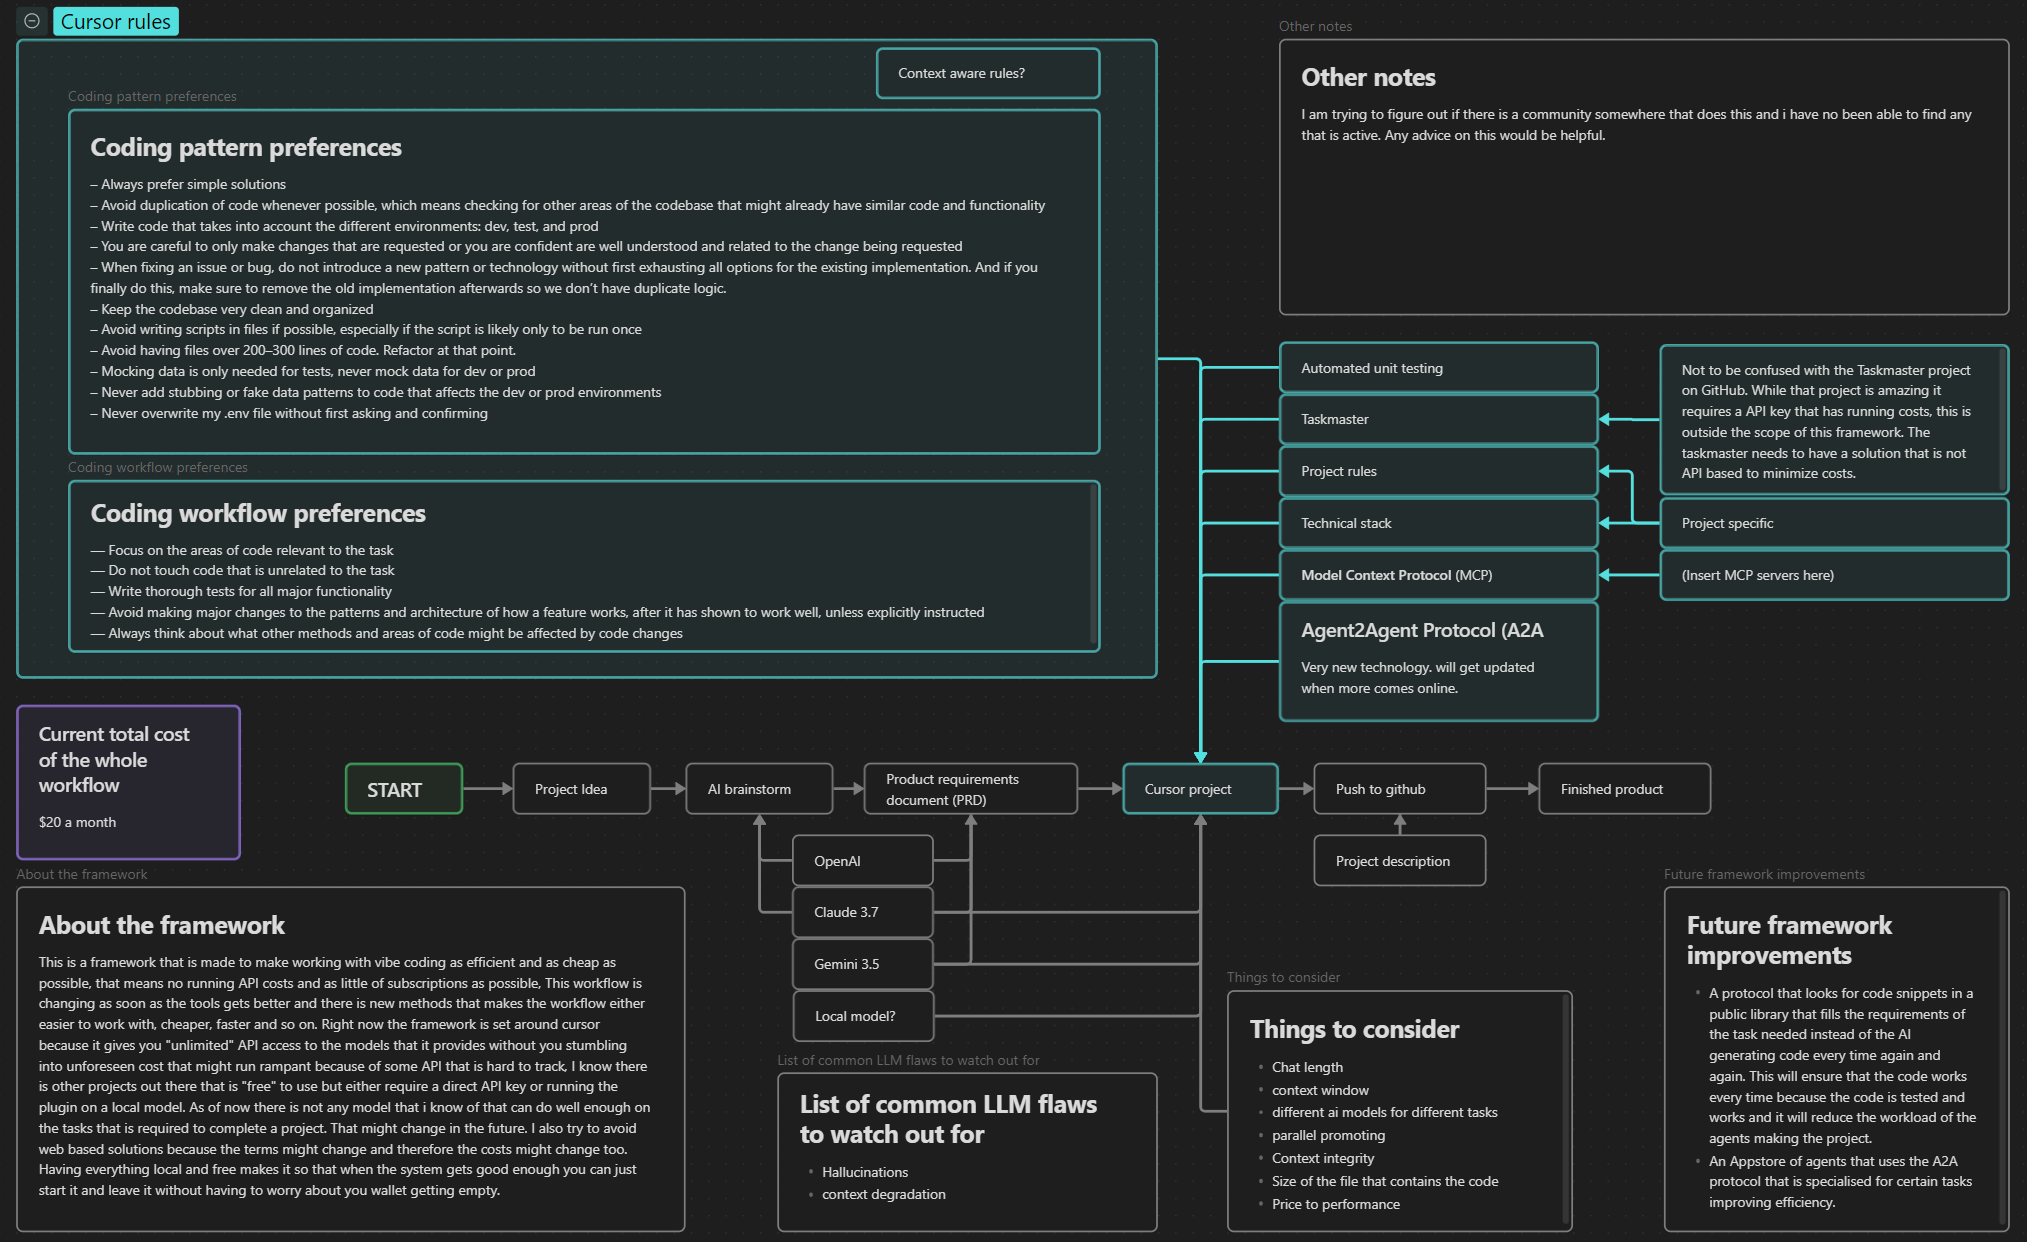
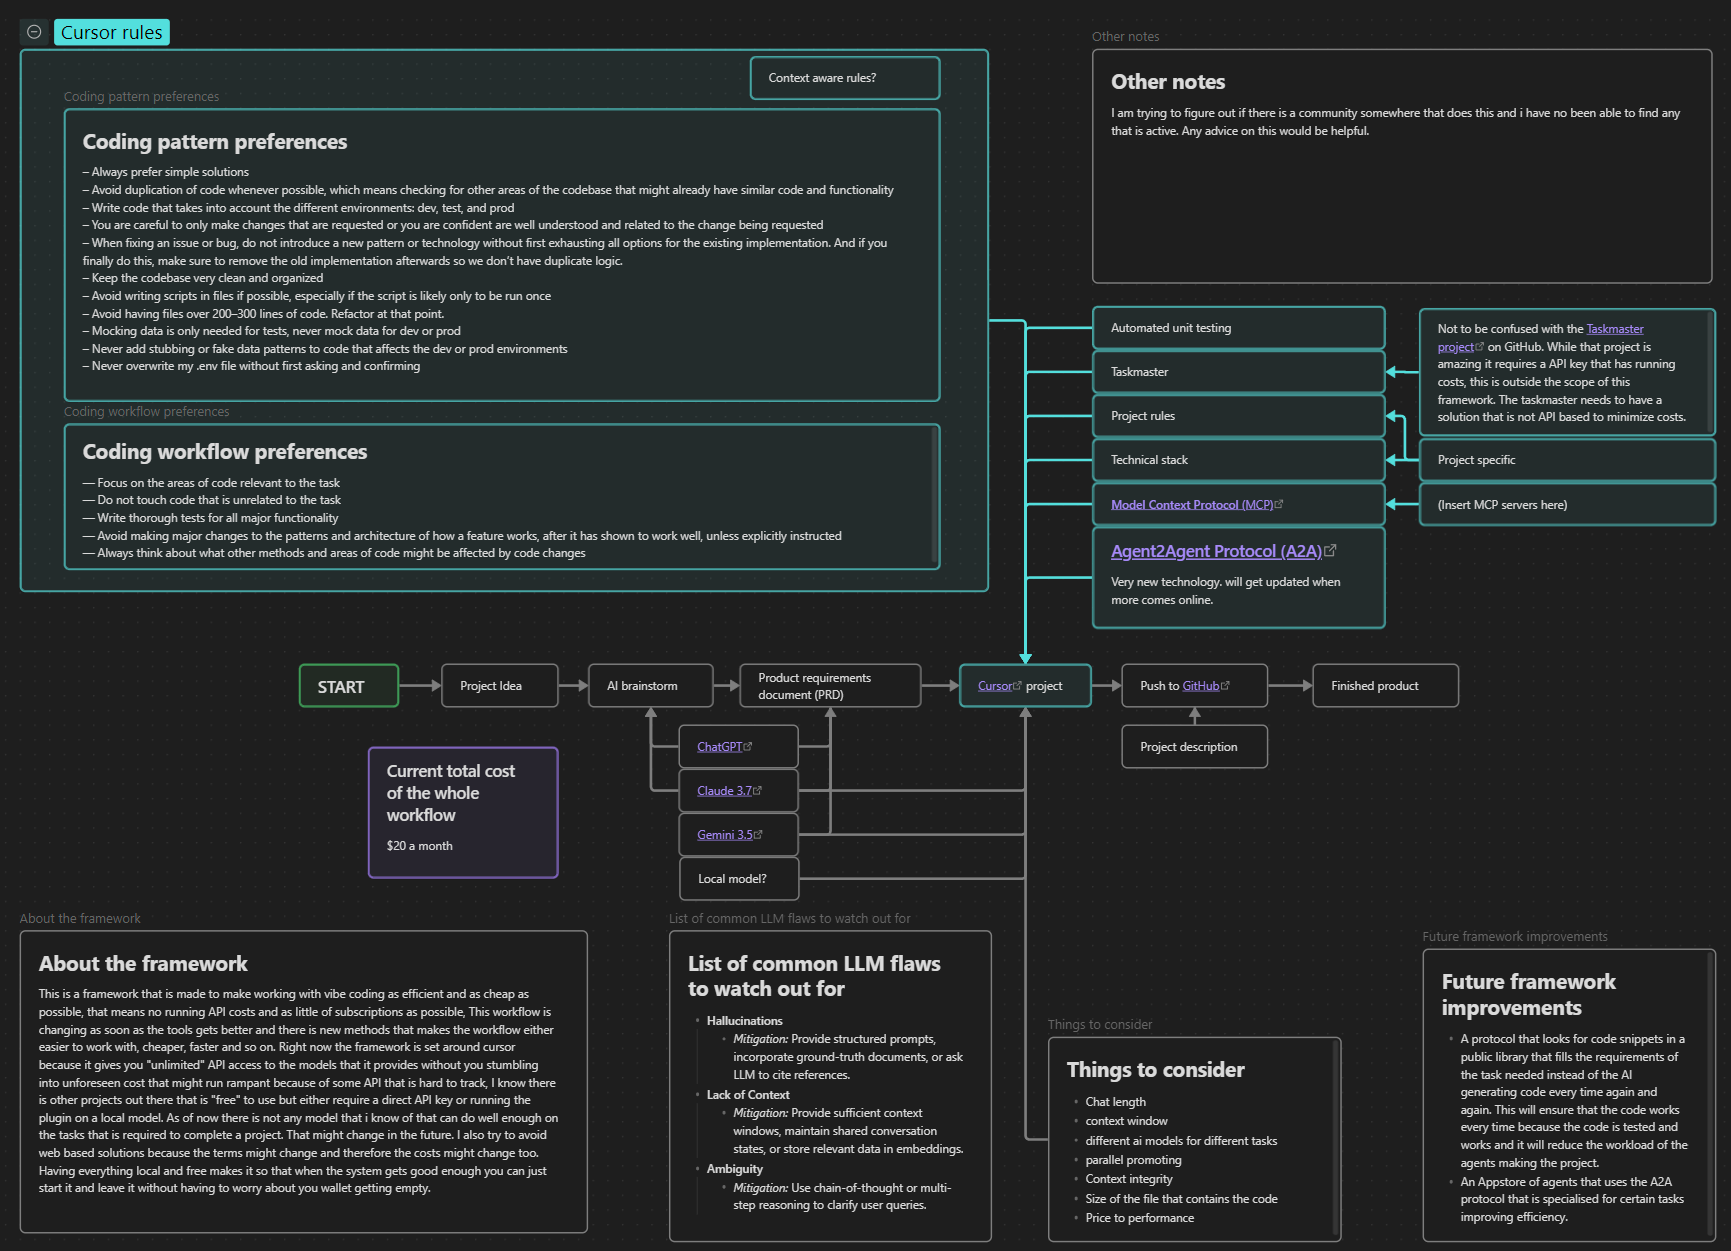
vault backup: 2025-04-13 14:32:46

diff --git a/md files/List of common LLM flaws to watch out for.md b/md files/List of common LLM flaws to watch out for.md
@@ -1,2 +1,6 @@
-- Hallucinations
-- context degradation
+- **Hallucinations**
+    - _Mitigation:_ Provide structured prompts, incorporate ground-truth documents, or ask LLM to cite references.
+- **Lack of Context**
+    - _Mitigation:_ Provide sufficient context windows, maintain shared conversation states, or store relevant data in embeddings.
+- **Ambiguity**
+    - _Mitigation:_ Use chain-of-thought or multi-step reasoning to clarify user queries.
